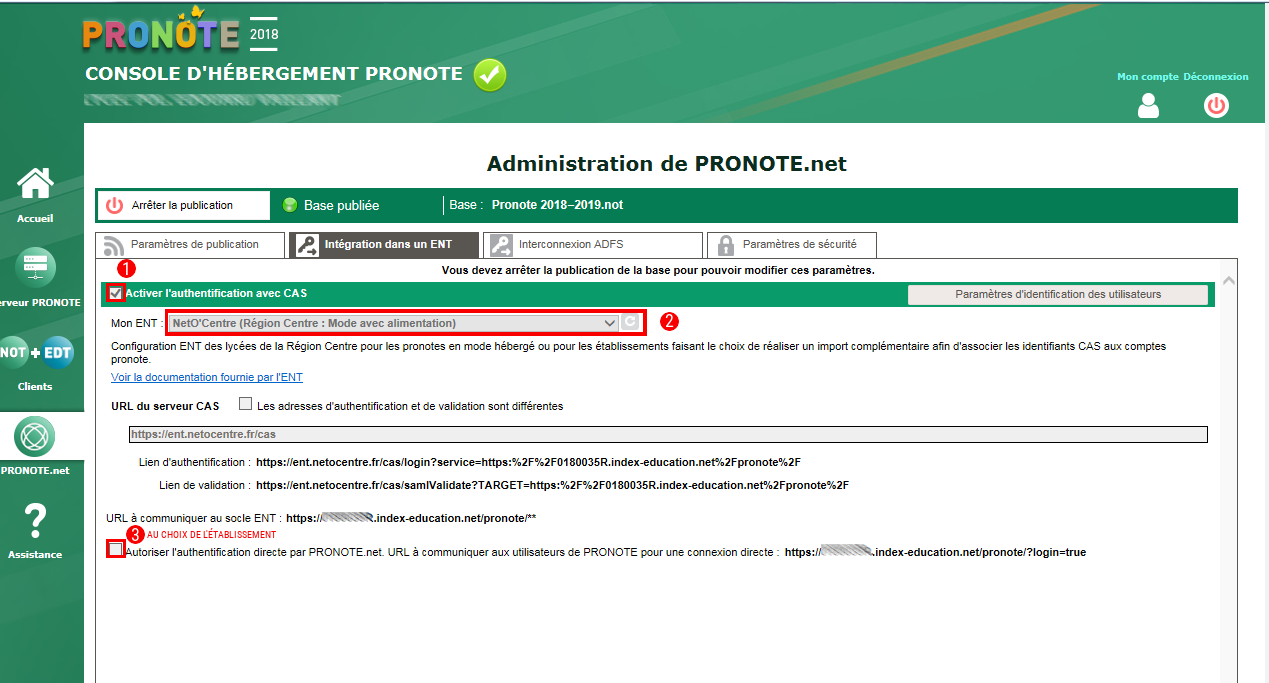
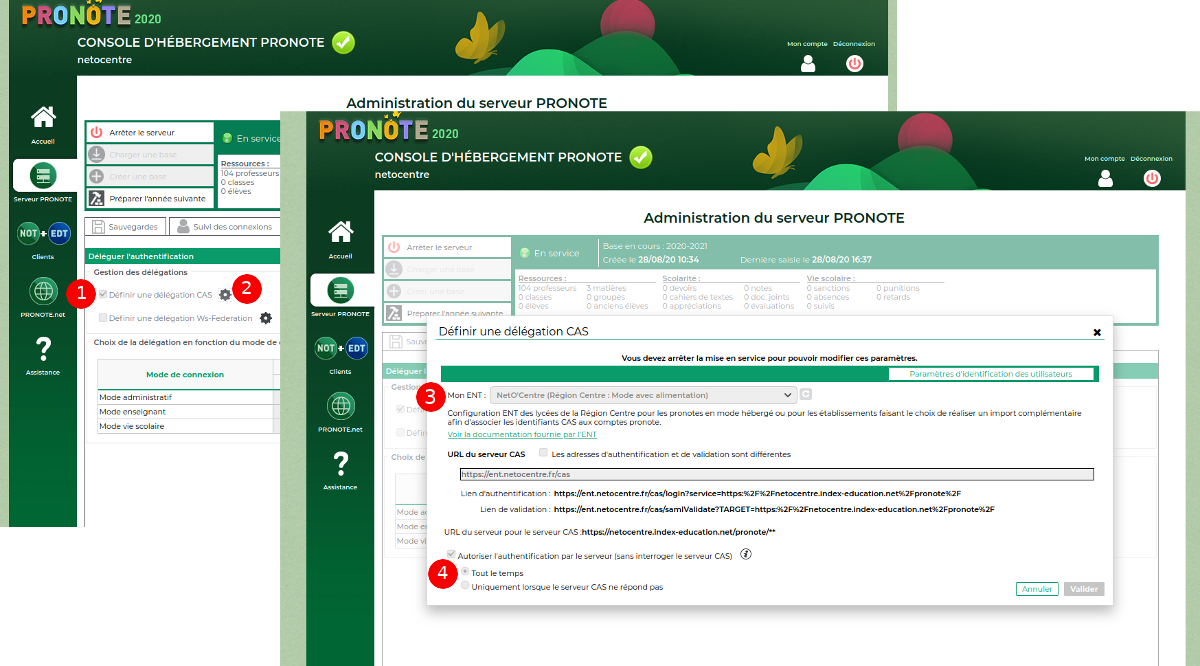
Modification pronotep pour nouvelle version 2020

diff --git a/ent.netocentre.fr/documentations/pronote/configPronote.html b/ent.netocentre.fr/documentations/pronote/configPronote.html
@@ -42,7 +42,7 @@
               Si vous avez enregistré votre certificat vous devriez pouvoir accéder à la configuration du Pronote.net.
               Si ce n'est pas le cas, Index Éducation fournit les documentations et l'assistance (via son support SAV) nécessaires.<br>
               Voici une copie d'écran de la configuration à réaliser afin de rendre accessible Pronote en mode hébergé dans l'ENT
-              (basée sur Pronote 2018 et avec l'exemple de NetO'centre, mais le principe est identique sur les versions suivantes et pour les autres ENT) :</p>
+              (basée sur Pronote 2020 et avec l'exemple de NetO'centre, mais le principe est identique sur les versions suivantes et pour les autres ENT) :</p>
               </li>
             </ol>
               <p><img style="max-width: 100%;" title="Configuration Pronote hébergé chez Index Éducation" alt="Configuration Pronote hébergé chez Index Éducation"
@@ -51,7 +51,8 @@
         <div class="AEfloatClear">
           Sur cet écran, il faut effectuer les opérations suivantes :
           <ol>
-            <li>Cocher la case "<span style="font-style: italic;">Activer l'authentification avec CAS</span>"</li>
+            <li>Cocher la case "<span style="font-style: italic;">Définir une délégation CAS</span>"</li>
+	    <li>Cliquer sur la roue crantée permettant le paramétrage</li>
             <li>Choisir, pour "<span style="font-style: italic;">Mon ENT</span>" l'ENT qui correspond à votre établissement</li>
             <li>Si en parallèle à la connexion ENT, l'établissement souhaite donner accès à Pronote en connexion directe, c'est à dire avec les identifiants Pronote,
             il faut cocher la case correspondante.</li>

diff --git a/ent.netocentre.fr/documentations/pronote/associationComptes.html b/ent.netocentre.fr/documentations/pronote/associationComptes.html
@@ -91,7 +91,7 @@ et qu'il convient de refaire un export avec le bon format.
             Pronote permet dans ce cas de saisir directement ce qu'ils appellent l'<span style="font-weight: bold;">Identifiant CAS</span> dans une liste d'utilisateurs.
             L'<span style="font-weight: bold;">Identifiant CAS</span> de Pronote doit correspondre à l'UID de l'utilisateur dans l'ENT, récupérable via la
             <span style="font-style: italic;">Gestion des comptes ENT</span>, par exemple dans la fiche de l'utilisateur.<br>
-            Dans pronote, on affiche la liste des utilisateurs en cliquant sur « <span style="font-weight: bold;">Ressources</span> », puis en choisissant la population désirée.<br>
+            Dans pronote, on affiche la liste des utilisateurs en cliquant sur « <span style="font-weight: bold;">Ressources (nommé Rsc.)</span> », puis en choisissant la population désirée.<br>
             Si la colonne <span style="font-weight: bold;">Identifiant CAS</span> n'est pas affichée, il faut l'ajouter au tableau en cliquant sur la petite clé à molette, en haut,
             à droite du tableau.<br>
             On peut ensuite entrer l'<span style="font-weight: bold;">Identifiant CAS</span> en double-cliquant sur la case correspondante sur la ligne du tableau associée
